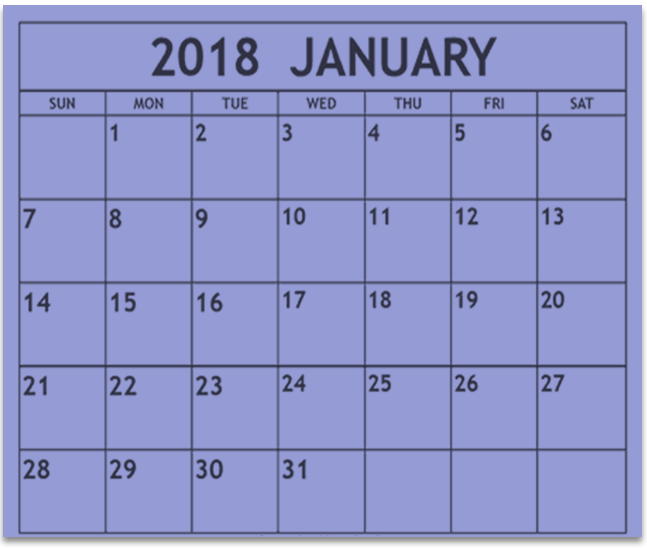
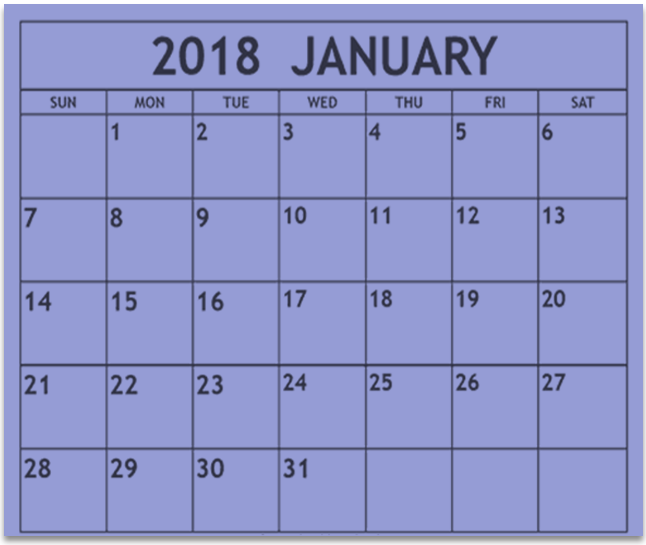
No longer broken
In the process of unbreaking everything, I began adjusting sizes on everything.

Changed region(s): [[0.0, 0.0, 1.0, 0.9982]]

diff --git a/styles/about.css b/styles/about.css
@@ -1,7 +1,9 @@
 body {
     margin:0;
     font-family:"Helvetica", "Arial", sans-serif;
-    overflow: scroll;  
+    overflow: scroll;
+    height:2127;
+    box-shadow: 1px 1px 10px #000;
 }
 
 nav {
@@ -73,13 +75,13 @@ p {
     font-family:"Century Gothic", "Arial", sans-serif;
     font-size: 30px
     height: 862px;
-    margin-top: 359px;
+    margin-top: 175px;
     width: 100%;
+    column-count: 2;
 }
 
 .OurValues{
     color: #000;
-    margin-top:  175px;
 }
 
 .phValues{
@@ -92,6 +94,27 @@ p {
 }
 
 #ferrisstudents{    
+    float:left;
     margin-top: 171px;
-    margin-left:353px;
+    margin-left: 40px;
+}
+
+.calendar{
+        column-count: 2;
+}
+
+hr{
+    color: #b2b2b2;
+    margin-left: 19px;
+    margin-right: 19px;
+    margin-bottom: 55px;
+    margin-top: 55px;
+    line-height: 1px;
+}
+
+#Bylaws{
+    text-decoration: none;
+    color: #3e62c9;
+    margin-left: 960px;
+    font-size:30px;
 }

diff --git a/about.html b/about.html
@@ -32,11 +32,11 @@
         </div>
         <div>
         <hr>
-        <a href="google.com">Our Bylaws</a>
+        <a id="Bylaws" href="google.com">Our Bylaws</a>
         <hr>
         </div>
         
-        <div>
+        <div class="calendar">
         <img id="calendar" src="imgs/about_calendar.png" alt="The calander of Ferris, this is a link to the events page" style="width:;height:;">
         <h2 class="OurValues">Upcoming Events</h2>
         <p class="phValues">The WaterBalloon Balooza</p>
